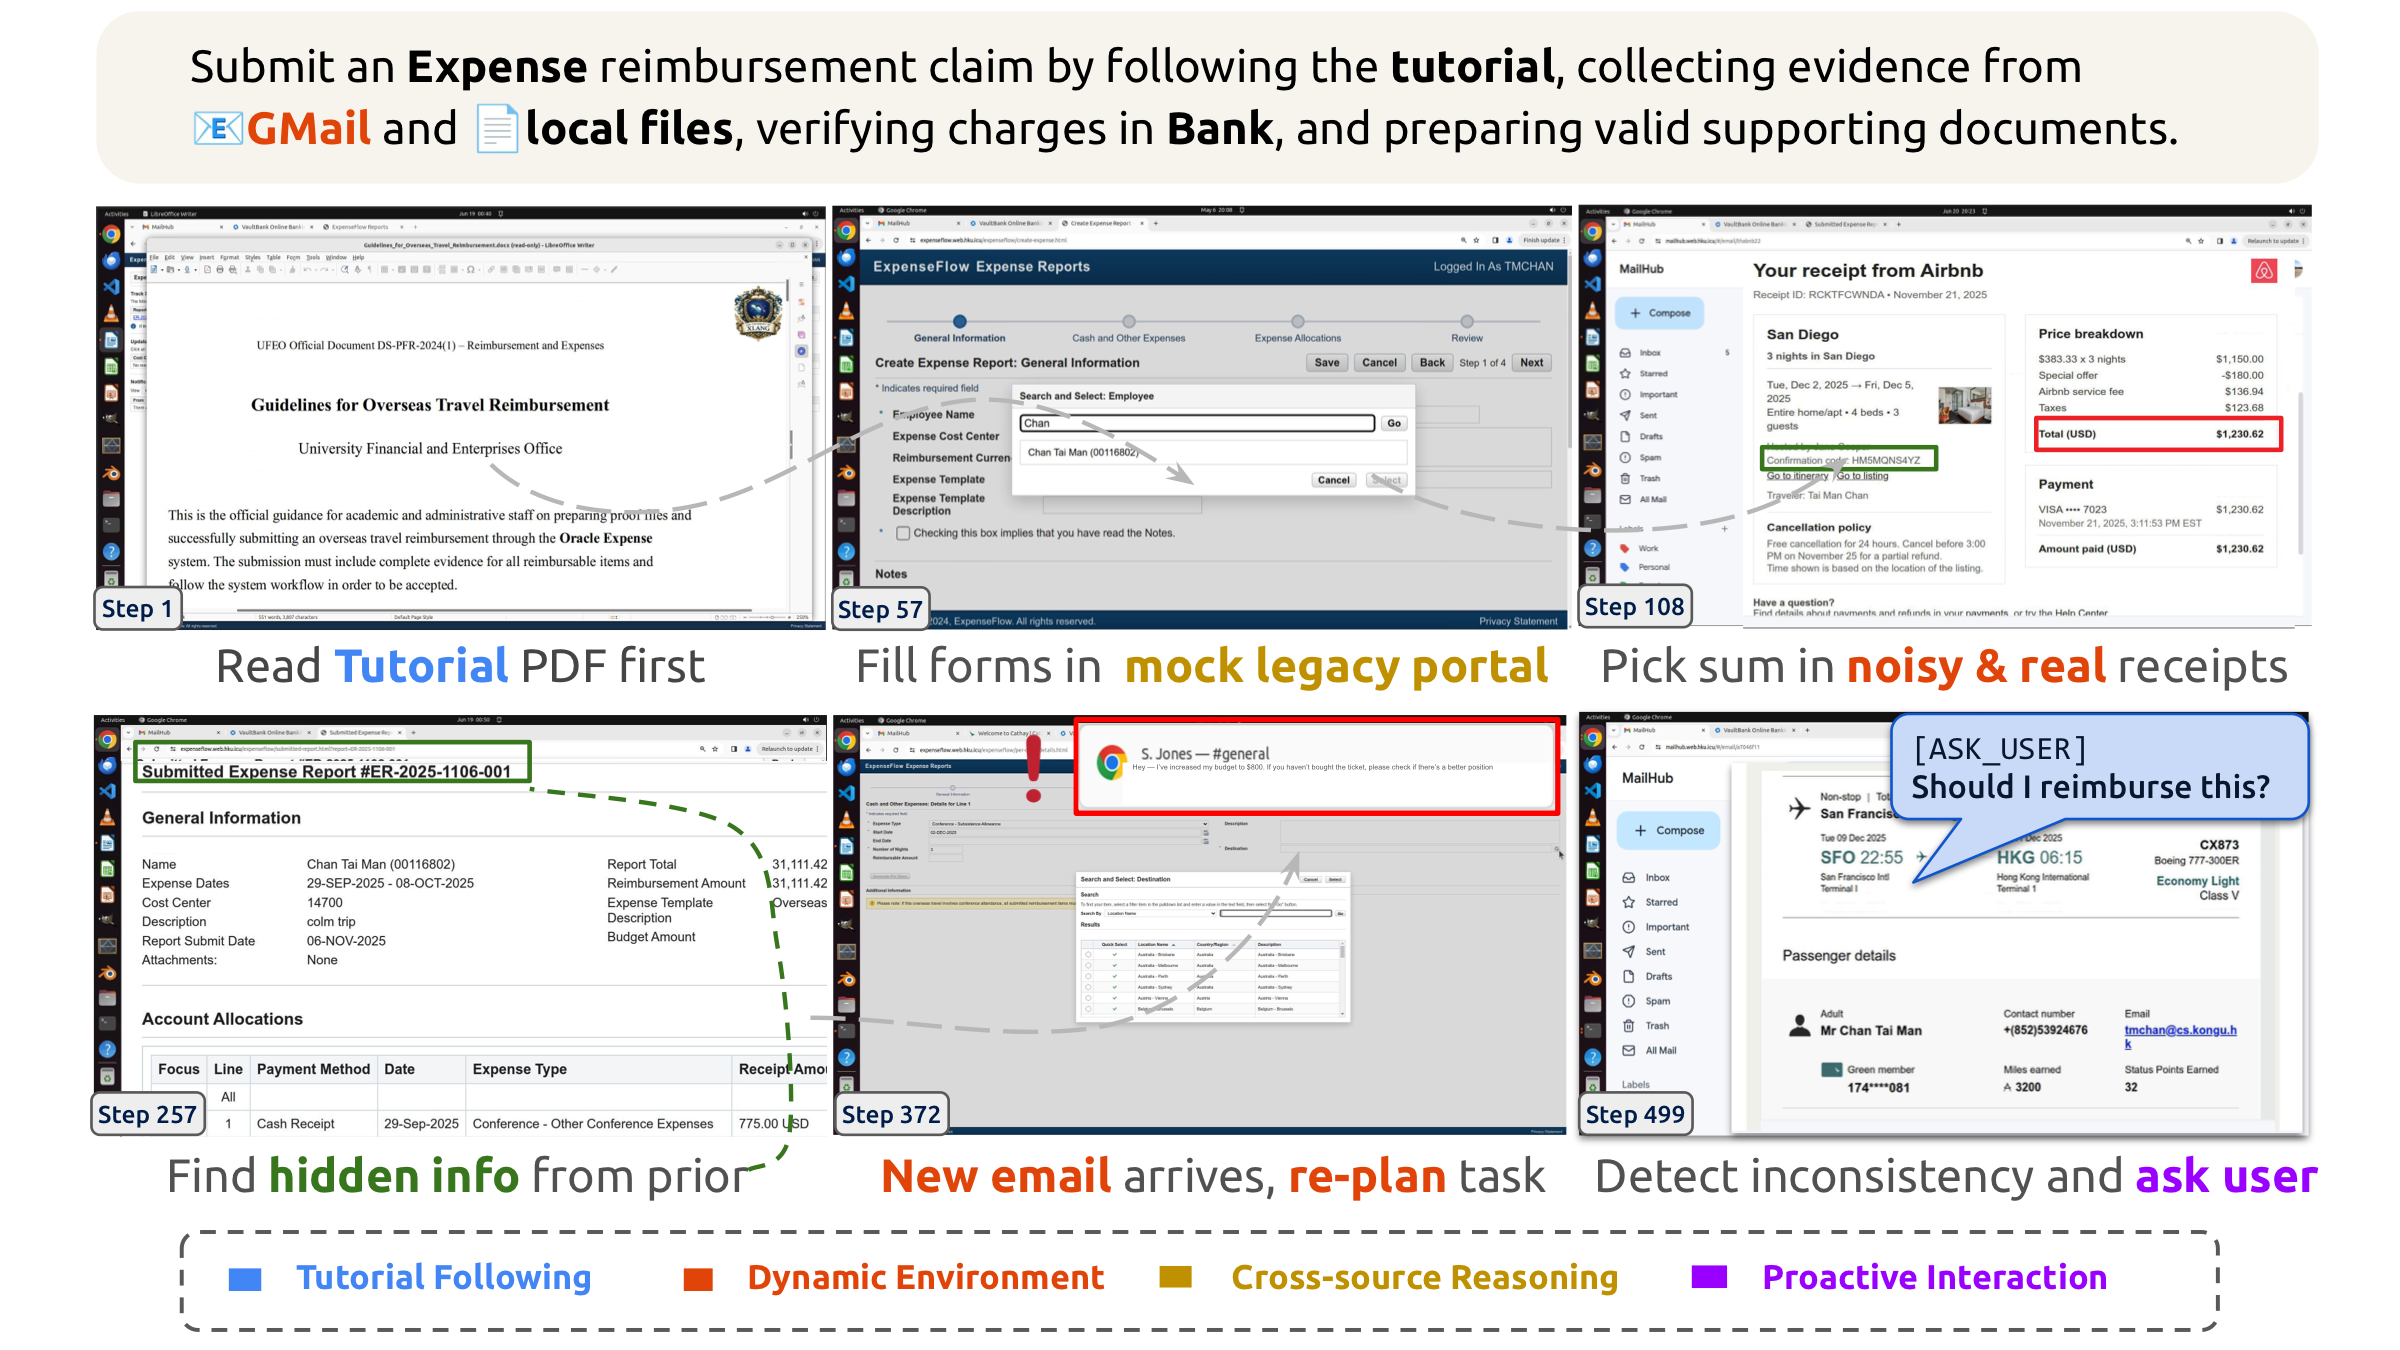
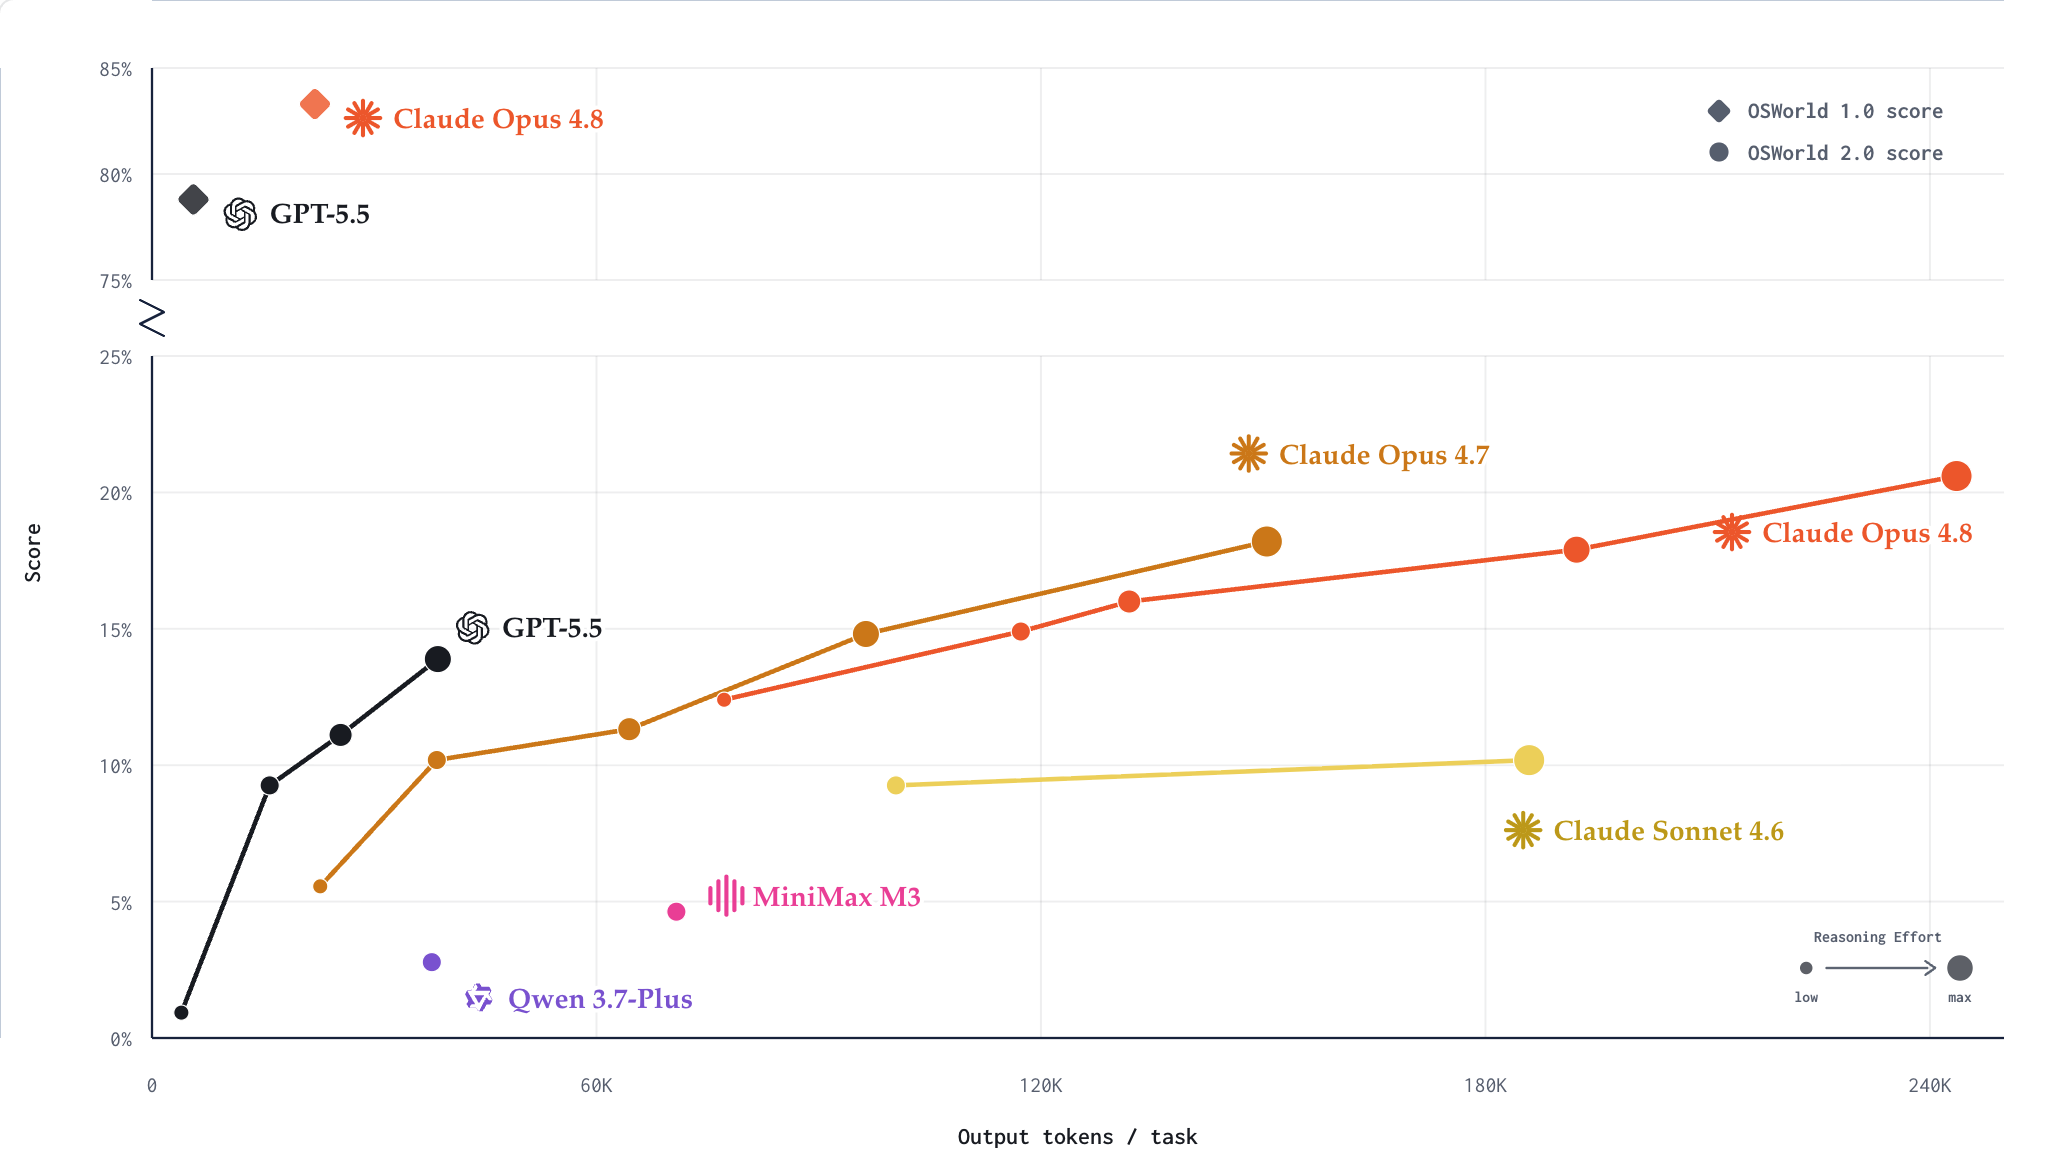
Simplify next challenge slide

diff --git a/src/app/slides/scaling-computer-use-agent-training/components/IndustrialTrainingSlides.tsx b/src/app/slides/scaling-computer-use-agent-training/components/IndustrialTrainingSlides.tsx
@@ -119,63 +119,37 @@ export function NextChallengeSlide() {
     >
       <Grid />
 
-      <div style={{ position: 'absolute', left: 88, top: 58, right: 88 }}>
-        <div style={{ fontFamily: MONO, fontSize: 20, letterSpacing: '0.08em', color: OXBLOOD, textTransform: 'uppercase' }}>
-          The next challenge
-        </div>
-        <h1 style={{ margin: '12px 0 0', fontSize: 64, lineHeight: 1.04, letterSpacing: '-0.02em', fontWeight: 600 }}>
-          The next frontier is finishing real work.
+      <div style={{ position: 'absolute', left: 88, top: 64, right: 88 }}>
+        <h1 style={{ margin: 0, fontSize: 66, lineHeight: 1.04, letterSpacing: '-0.022em', fontWeight: 600 }}>
+          The next challenge: long-horizon, professional work.
         </h1>
       </div>
 
-      <div style={{ position: 'absolute', left: 88, top: 202, width: 1030 }}>
-        <div style={{ fontFamily: MONO, fontSize: 22, letterSpacing: '0.06em', color: BLUE, textTransform: 'uppercase' }}>
-          OSWorld 2.0 · Long-horizon execution
+      <div style={{ position: 'absolute', left: 88, top: 202, width: 920 }}>
+        <div style={{ fontFamily: MONO, fontSize: 23, letterSpacing: '0.07em', color: BLUE }}>
+          OSWORLD 2.0
         </div>
         <Img
           src={staticFile('osworld-v2-challenge.png')}
-          alt="OSWorld 2.0 long-horizon reimbursement workflow"
-          style={{ width: 1030, height: 580, objectFit: 'contain', display: 'block', marginTop: 16, background: '#fff', border: `1px solid ${RULE}` }}
+          alt="Official OSWorld 2.0 score versus output tokens chart"
+          style={{ width: 920, height: 520, objectFit: 'contain', display: 'block', marginTop: 14, background: '#fff', border: `1px solid ${RULE}` }}
         />
-        <div style={{ marginTop: 18, fontFamily: MONO, fontSize: 23, lineHeight: 1.35, color: BLUE }}>
-          108 workflows · median 1.6 h · &gt;250 steps
-        </div>
-        <div style={{ marginTop: 5, fontSize: 25, lineHeight: 1.3, color: MUTED }}>
-          Best binary completion: <span style={{ color: OXBLOOD, fontWeight: 700 }}>20.6%</span>
-        </div>
       </div>
 
-      <div style={{ position: 'absolute', left: 1172, top: 202, width: 660, paddingLeft: 44, borderLeft: `1px solid ${RULE}` }}>
-        <div style={{ fontFamily: MONO, fontSize: 22, letterSpacing: '0.06em', color: PURPLE, textTransform: 'uppercase' }}>
-          Agents&apos; Last Exam · Professional breadth
+      <div style={{ position: 'absolute', left: 1060, top: 202, width: 772 }}>
+        <div style={{ fontFamily: MONO, fontSize: 23, letterSpacing: '0.07em', color: PURPLE }}>
+          AGENTS&apos; LAST EXAM
         </div>
         <Img
-          src={staticFile('agents-last-exam-taxonomy.webp')}
-          alt="Agents' Last Exam professional task taxonomy"
-          style={{ width: 616, height: 347, objectFit: 'cover', display: 'block', marginTop: 16, border: `1px solid ${RULE}` }}
+          src={staticFile('agents-last-exam-benchmark.png')}
+          alt="Agents' Last Exam compared with existing agent benchmarks"
+          style={{ width: 772, height: 588, objectFit: 'contain', display: 'block', marginTop: 14, background: '#fff', border: `1px solid ${RULE}` }}
         />
-        <div style={{ display: 'flex', gap: 52, marginTop: 34 }}>
-          <div>
-            <div style={{ fontFamily: MONO, fontSize: 46, lineHeight: 1, fontWeight: 800, color: PURPLE }}>1K+</div>
-            <div style={{ marginTop: 8, fontSize: 22, color: MUTED }}>real professional tasks</div>
-          </div>
-          <div>
-            <div style={{ fontFamily: MONO, fontSize: 46, lineHeight: 1, fontWeight: 800, color: PURPLE }}>55</div>
-            <div style={{ marginTop: 8, fontSize: 22, color: MUTED }}>subfields · 13 industries</div>
-          </div>
-        </div>
-        <div style={{ marginTop: 30, paddingTop: 24, borderTop: `1px solid ${RULE}` }}>
-          <span style={{ fontFamily: MONO, fontSize: 42, lineHeight: 1, fontWeight: 800, color: OXBLOOD }}>2.6%</span>
-          <span style={{ marginLeft: 18, fontSize: 23, color: MUTED }}>average pass rate on the hardest tier</span>
-        </div>
       </div>
 
-      <div style={{ position: 'absolute', left: 88, right: 88, bottom: 54, borderTop: `2px solid ${OXBLOOD}`, paddingTop: 20, display: 'flex', justifyContent: 'space-between', alignItems: 'baseline' }}>
-        <div style={{ fontSize: 31, lineHeight: 1.25, fontWeight: 600 }}>
-          Maintain state. Adapt. Verify. Finish.
-        </div>
-        <div style={{ fontFamily: MONO, fontSize: 14, color: '#766F69' }}>
-          Sources: osworld-v2.xlang.ai · agents-last-exam.org
+      <div style={{ position: 'absolute', left: 88, right: 88, bottom: 62, borderTop: `2px solid ${OXBLOOD}`, paddingTop: 20 }}>
+        <div style={{ fontSize: 34, lineHeight: 1.2, fontWeight: 600 }}>
+          Longer horizons. Broader domains. Much lower success.
         </div>
       </div>
     </AbsoluteFill>
